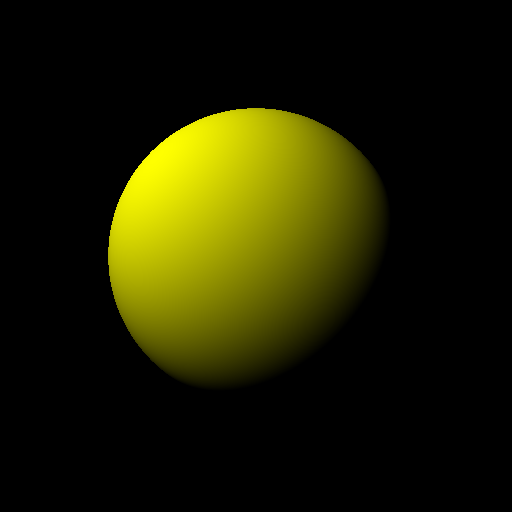
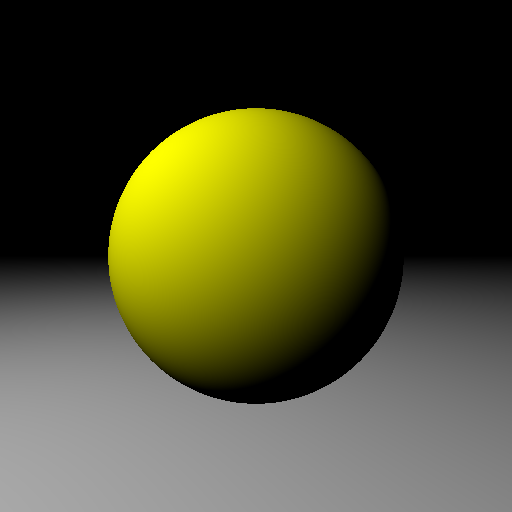
Render a scene: a sphere on a floor

diff --git a/tests/camera/camera_test.cpp b/tests/camera/camera_test.cpp
@@ -10,6 +10,7 @@
 #include "material/flat_shader.hpp"
 #include "material/lambert_shader.hpp"
 #include "light/light.hpp"
+#include "scene/scene.hpp"
 #include "image/image.hpp"
 
 // ---------- constructor and getters ----------
@@ -109,15 +110,16 @@ TEST_CASE("With a 2 unit screen and a 512 x 256 image, the corner rays go throug
 }
 
 // ---------- trace ----------
-// Camera at (0, 0, -1), sphere of radius 1 centred at (0, 0, 5), white light next to the camera.
+// Camera at (0, 0, -1), a scene with a sphere of radius 1 centred at (0, 0, 5), white light next to the camera.
 
 TEST_CASE("Tracing a ray that hits the sphere gives the sphere's colour", "[camera][trace]") {
     Camera camera(Vector(0.0, 0.0, -1.0));
-    Sphere sphere(Vector(0.0, 0.0, 5.0), 1.0, std::make_shared<FlatShader>(Colour(0.0, 1.0, 0.0)));
     Light light(Vector(0.0, 0.0, -1.0), Colour(1.0, 1.0, 1.0));
+    Scene scene(light);
+    scene.add(std::make_unique<Sphere>(Vector(0.0, 0.0, 5.0), 1.0, std::make_shared<FlatShader>(Colour(0.0, 1.0, 0.0))));
     Ray ray(Vector(0.0, 0.0, -1.0), Vector(0.0, 0.0, 1.0));
 
-    Colour colour = camera.trace(ray, sphere, light);
+    Colour colour = camera.trace(ray, scene);
 
     REQUIRE(colour.r() == 0.0);
     REQUIRE(colour.g() == 1.0);
@@ -126,13 +128,14 @@ TEST_CASE("Tracing a ray that hits the sphere gives the sphere's colour", "[came
 
 TEST_CASE("Tracing a ray with a Lambert sphere lit from the side darkens the colour", "[camera][trace]") {
     Camera camera(Vector(0.0, 0.0, -1.0));
-    Sphere sphere(Vector(0.0, 0.0, 5.0), 1.0, std::make_shared<LambertShader>(Colour(1.0, 1.0, 1.0)));
+    Light light(Vector(10.0, 0.0, 4.0), Colour(1.0, 1.0, 1.0));
+    Scene scene(light);
+    scene.add(std::make_unique<Sphere>(Vector(0.0, 0.0, 5.0), 1.0, std::make_shared<LambertShader>(Colour(1.0, 1.0, 1.0))));
     // The ray hits the sphere at (0, 0, 4), where the normal is (0, 0, -1).
     // The light is perpendicular to that normal, so the point is not lit.
-    Light light(Vector(10.0, 0.0, 4.0), Colour(1.0, 1.0, 1.0));
     Ray ray(Vector(0.0, 0.0, -1.0), Vector(0.0, 0.0, 1.0));
 
-    Colour colour = camera.trace(ray, sphere, light);
+    Colour colour = camera.trace(ray, scene);
 
     REQUIRE(colour.r() == 0.0);
     REQUIRE(colour.g() == 0.0);
@@ -141,11 +144,12 @@ TEST_CASE("Tracing a ray with a Lambert sphere lit from the side darkens the col
 
 TEST_CASE("Tracing a ray that misses the sphere gives black", "[camera][trace]") {
     Camera camera(Vector(0.0, 0.0, -1.0));
-    Sphere sphere(Vector(0.0, 0.0, 5.0), 1.0, std::make_shared<FlatShader>(Colour(1.0, 0.0, 0.0)));
     Light light(Vector(0.0, 0.0, -1.0), Colour(1.0, 1.0, 1.0));
+    Scene scene(light);
+    scene.add(std::make_unique<Sphere>(Vector(0.0, 0.0, 5.0), 1.0, std::make_shared<FlatShader>(Colour(1.0, 0.0, 0.0))));
     Ray ray(Vector(0.0, 0.0, -1.0), Vector(0.0, 1.0, 0.0));
 
-    Colour colour = camera.trace(ray, sphere, light);
+    Colour colour = camera.trace(ray, scene);
 
     REQUIRE(colour.r() == 0.0);
     REQUIRE(colour.g() == 0.0);
@@ -156,11 +160,11 @@ TEST_CASE("Tracing a ray that misses the sphere gives black", "[camera][trace]")
 
 TEST_CASE("Rendering gives an image of the requested size", "[camera][render]") {
     Camera camera(Vector(0.0, 0.0, -1.0), 2.0);
-    Sphere sphere(Vector(0.0, 0.0, 5.0), 1.0, std::make_shared<FlatShader>(Colour(1.0, 0.0, 0.0)));
-
     Light light(Vector(0.0, 0.0, -1.0), Colour(1.0, 1.0, 1.0));
+    Scene scene(light);
+    scene.add(std::make_unique<Sphere>(Vector(0.0, 0.0, 5.0), 1.0, std::make_shared<FlatShader>(Colour(1.0, 0.0, 0.0))));
 
-    Image image = camera.render(sphere, light, 4, 3);
+    Image image = camera.render(scene, 4, 3);
 
     REQUIRE(image.width() == 4);
     REQUIRE(image.height() == 3);
@@ -168,11 +172,11 @@ TEST_CASE("Rendering gives an image of the requested size", "[camera][render]") 
 
 TEST_CASE("Rendering a sphere in front of the camera colours the centre red and the corners black", "[camera][render]") {
     Camera camera(Vector(0.0, 0.0, -1.0), 2.0);
-    Sphere sphere(Vector(0.0, 0.0, 5.0), 1.0, std::make_shared<FlatShader>(Colour(1.0, 0.0, 0.0)));
-
     Light light(Vector(0.0, 0.0, -1.0), Colour(1.0, 1.0, 1.0));
+    Scene scene(light);
+    scene.add(std::make_unique<Sphere>(Vector(0.0, 0.0, 5.0), 1.0, std::make_shared<FlatShader>(Colour(1.0, 0.0, 0.0))));
 
-    Image image = camera.render(sphere, light, 5, 5);
+    Image image = camera.render(scene, 5, 5);
 
     REQUIRE(image.pixel(2, 2).r() == 1.0);
     REQUIRE(image.pixel(0, 0).r() == 0.0);

diff --git a/src/main.cpp b/src/main.cpp
@@ -2,6 +2,8 @@
 #include <memory>
 #include <math/vector.hpp>
 #include <geometry/sphere.hpp>
+#include <geometry/plane.hpp>
+#include <scene/scene.hpp>
 #include <colour/colour.hpp>
 #include <material/lambert_shader.hpp>
 #include <light/light.hpp>
@@ -17,14 +19,19 @@ int main() {
 
     Camera camera(Vector(0, 0, -1), 2.0);
 
-    // Sphere, centre, rayon et materiau
-    auto yellow = std::make_shared<LambertShader>(Colour(1, 1, 0));
-    Sphere sphere(Vector(0, 0, 9), 5, yellow);
-
     // White light up, left and in front of the sphere.
     Light light(Vector(-10, 10, -5), Colour(1, 1, 1));
+    Scene scene(light);
 
-    Image image = camera.render(sphere, light, imageWidth, imageHeight);
+    // Sphere, centre, rayon et materiau
+    auto yellow = std::make_shared<LambertShader>(Colour(1, 1, 0));
+    scene.add(std::make_unique<Sphere>(Vector(0, 0, 9), 5, yellow));
+
+    // Grey floor, just under the sphere.
+    auto grey = std::make_shared<LambertShader>(Colour(0.8, 0.8, 0.8));
+    scene.add(std::make_unique<Plane>(Vector(0, -5, 0), Vector(0, 1, 0), grey));
+
+    Image image = camera.render(scene, imageWidth, imageHeight);
 
     PngSaver saver = PngSaver();
     saver.save(image, "output.png");

diff --git a/src/camera/camera.hpp b/src/camera/camera.hpp
@@ -2,10 +2,9 @@
 
 #include "math/vector.hpp"
 #include "ray/ray.hpp"
-#include "geometry/sphere.hpp"
+#include "scene/scene.hpp"
 #include "colour/colour.hpp"
 #include "image/image.hpp"
-#include "light/light.hpp"
 
 // A camera placed at `position`.
 // For now it always faces the positive Z axis (direction (0, 0, 1)).
@@ -24,11 +23,11 @@ public:
 
     Ray rayThroughPixel(int column, int row, int imageWidth, int imageHeight);
 
-    // Colour seen along `ray`: the colour given by the material of `sphere`, lit by `light`,
-    // if the ray hits it, black otherwise.
-    Colour trace(Ray& ray, Sphere& sphere, const Light& light) const;
+    // Colour seen along `ray`: the nearest hit in `scene`, shaded by its material with the scene's light,
+    // or black if the ray hits nothing.
+    Colour trace(Ray& ray, const Scene& scene) const;
 
-    // Renders `sphere`, lit by `light`, into an image of imageWidth x imageHeight pixels.
-    Image render(Sphere& sphere, const Light& light, int imageWidth, int imageHeight);
+    // Renders `scene` into an image of imageWidth x imageHeight pixels.
+    Image render(const Scene& scene, int imageWidth, int imageHeight);
 };
 

diff --git a/src/camera/camera.cpp b/src/camera/camera.cpp
@@ -24,21 +24,21 @@ Ray Camera::rayThroughPixel(int column, int row, int imageWidth, int imageHeight
     return Ray(_position, direction);
 }
 
-Colour Camera::trace(Ray& ray, Sphere& sphere, const Light& light) const {
-    std::optional<HitInfo> hit = sphere.hit(ray);
+Colour Camera::trace(Ray& ray, const Scene& scene) const {
+    std::optional<HitInfo> hit = scene.nearestHit(ray);
     if (!hit) {
         return Colour(0, 0, 0);
     }
-    return hit->material->shade(*hit, light);
+    return hit->material->shade(*hit, scene.light());
 }
 
-Image Camera::render(Sphere& sphere, const Light& light, int imageWidth, int imageHeight) {
+Image Camera::render(const Scene& scene, int imageWidth, int imageHeight) {
     Image image(imageWidth, imageHeight);
 
     for (int row = 0; row < imageHeight; ++row) {
         for (int column = 0; column < imageWidth; ++column) {
             Ray ray = rayThroughPixel(column, row, imageWidth, imageHeight);
-            image.setPixel(column, row, trace(ray, sphere, light));
+            image.setPixel(column, row, trace(ray, scene));
         }
     }
 
